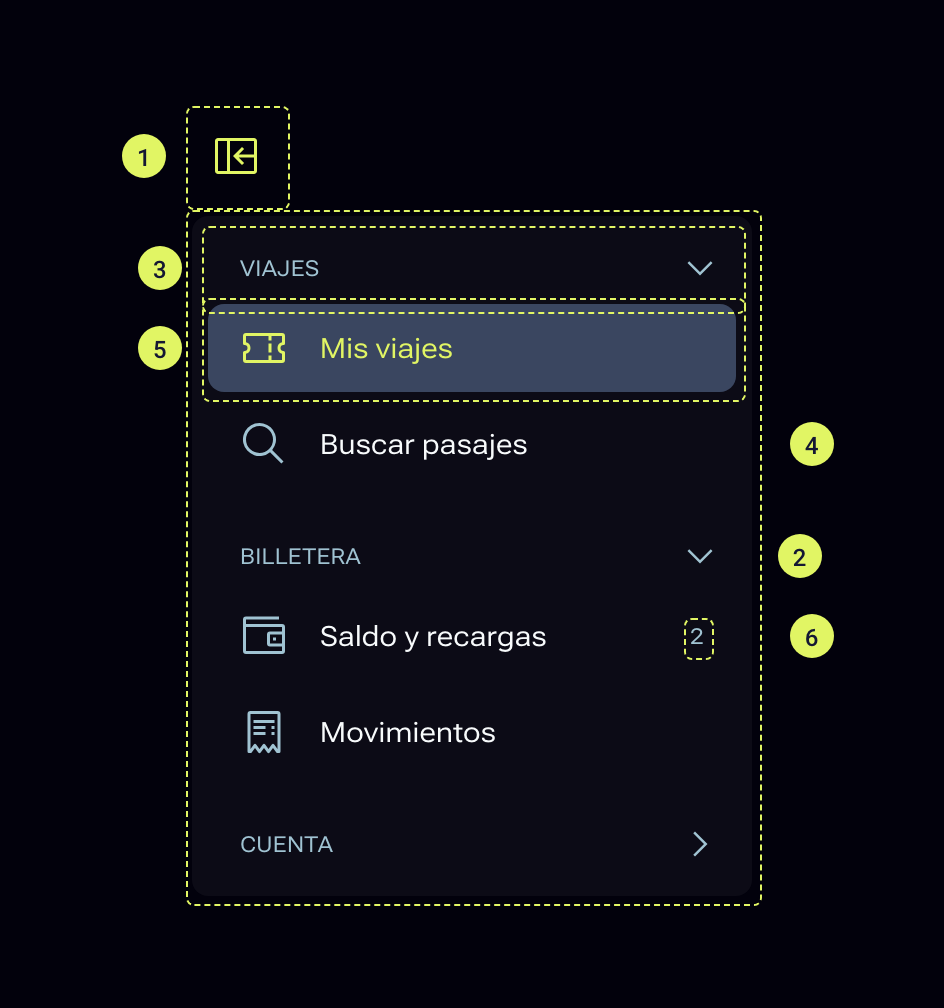
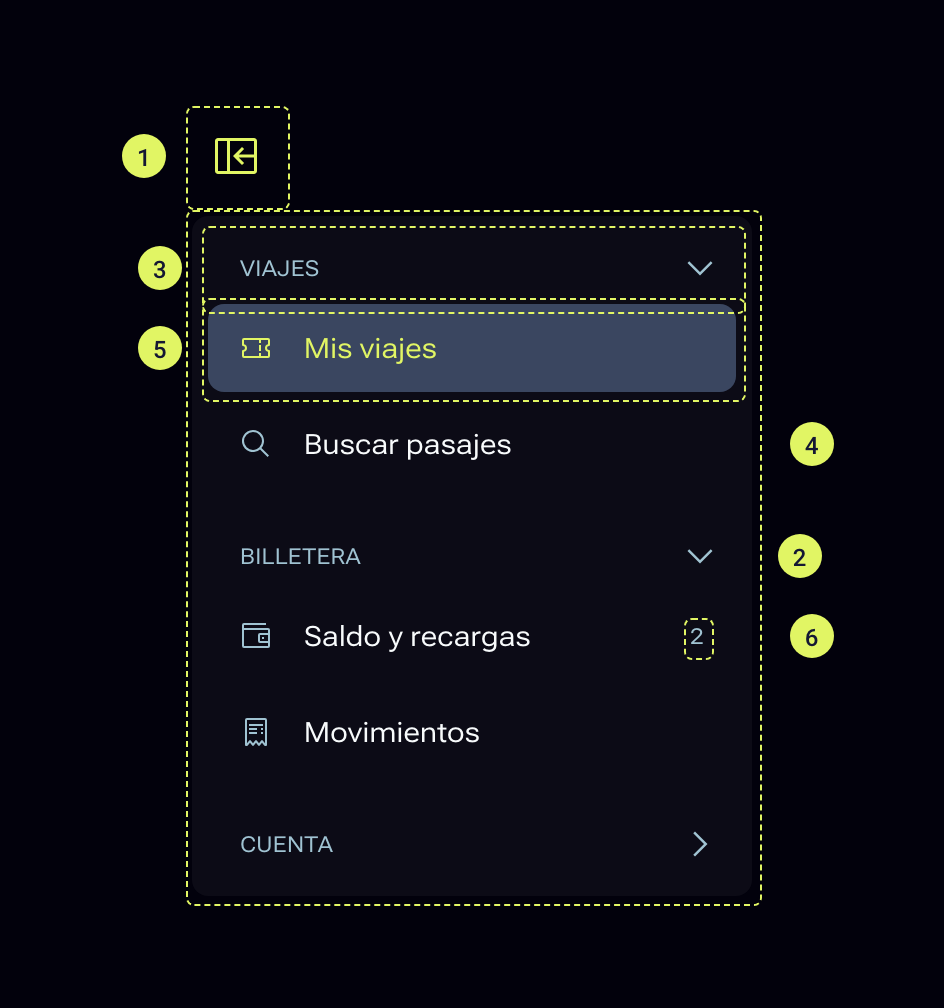
feat(docs): imágenes de los patrones; íconos del Sidebar a 16 px
- 16 escenas nuevas en scripts/images/patrones.mjs, hechas con los componentes reales.
- Sidebar: el ícono del destino usa icon-size-sm (16 px), igual a su separación de la etiqueta.
- Pendientes queda en 0 imágenes.

diff --git a/artifact/project/components/bundle.js b/artifact/project/components/bundle.js
@@ -514,7 +514,7 @@
         h('a', { href: it.href || '#', className: 'alma-side__item' + (on ? ' is-on' : ''), 'aria-current': on ? 'page' : undefined,
           'aria-label': it.badge !== undefined ? badgeLabel(it.label, it.badge) : undefined,
           onClick: function (e) { if (!it.href) e.preventDefault(); s[1](it.value); if (props.onChange) props.onChange(it.value); } },
-          it.icon ? h(AlmaIcon, { name: it.icon, variant: on ? 'filled' : 'outlined' }) : null,
+          it.icon ? h(AlmaIcon, { name: it.icon, size: 16, variant: on ? 'filled' : 'outlined' }) : null,
           h('span', { className: 'alma-side__text' }, it.label),
           it.badge !== undefined ? h('span', { className: 'alma-side__count' }, it.badge === true ? '!' : String(it.badge)) : null));
     }

diff --git a/artifact/project/Patrones.md b/artifact/project/Patrones.md
@@ -18,7 +18,7 @@ Siempre que la persona tenga que darnos datos: crear una cuenta, pagar, comprar 
 - **Formularios largos:** pártelos en pasos con `ProgressIndicator`, uno por tema. Nunca más de 5 pasos.
 - El ancho del campo sugiere el largo del dato: un código postal no ocupa todo el ancho.
 
-> **Imagen pendiente:** formulario de datos del pasajero en una columna, con dos grupos y el botón al final.
+![Formulario de datos del pasajero en una columna: el grupo Pasajero (nombre y RUT) y el grupo Contacto (correo y teléfono opcional), con 16 px entre campos, 24 px entre grupos y el botón «Continuar al pago» al final.](assets/Patrones/formularios-estructura.png)
 
 ### Elegir el control
 
@@ -55,7 +55,7 @@ Siempre que la persona tenga que darnos datos: crear una cuenta, pagar, comprar 
 - El error va bajo el campo, en `text-error` y con `field-border-error`: nunca solo color.
 - Dice cómo arreglarlo: «Escribe un correo con @», no «Correo inválido».
 
-> **Imagen pendiente:** un campo en reposo, con ayuda, con error y corregido.
+![El mismo campo de correo en cuatro momentos: en reposo, con su ayuda, con el error «Escribe un correo con @» en rojo y con ícono, y corregido.](assets/Patrones/formularios-validacion.png)
 
 ### Envío
 
@@ -87,7 +87,7 @@ Usa `EmptyState`:
 4. **Acción principal:** el siguiente paso. «Buscar pasajes».
 5. **Acción secundaria** (opcional).
 
-> **Imagen pendiente:** los cuatro casos de abajo, uno junto al otro.
+![Los cuatro estados vacíos lado a lado: primera vez («Aún no tienes viajes», con «Buscar pasajes»), sin resultados («No encontramos viajes a Talca el 31 de marzo», con «Quitar filtros»), sin permiso (sin acción) y sin conexión (con «Reintentar»).](assets/Patrones/estados-vacios-casos.png)
 
 ### Los casos
 
@@ -124,7 +124,7 @@ Cómo elegir el componente según el peso del mensaje.
 | Algo que exige una decisión | `Alert` | Al responder |
 | Un consejo sobre una función | `Tip` | Al descartarlo |
 
-> **Imagen pendiente:** la escala de peso, del error de campo a la alerta, con un ejemplo de cada uno.
+![La escala de peso de las notificaciones, de menos a más: el error de un campo, una InlineNotification, un callout, un Tip, un toast y una Alert que exige respuesta.](assets/Patrones/notificaciones-peso.png)
 
 ### Estados
 
@@ -163,7 +163,7 @@ Qué mostrar mientras algo tarda.
 | Una acción de un botón | `loading` del `Button` | La espera queda donde se hizo clic. |
 | Una pantalla de marca que se prepara | `ProgressLine` | La línea lima que termina en verde. |
 
-> **Imagen pendiente:** una lista de viajes cargando con `Skeleton` y luego con los datos.
+![La vista Mis viajes mientras carga, con Skeleton en el lugar de cada tarjeta, y la misma vista con los datos.](assets/Patrones/carga-skeleton.png)
 
 ### Tiempos
 
@@ -200,7 +200,7 @@ Usa `SearchField`:
 - **Alcance** (`scopes`): si se puede buscar en distintas áreas, empieza por la más amplia.
 - Los resultados muestran la palabra buscada y cuántos hay: «12 viajes a Talca».
 
-> **Imagen pendiente:** búsqueda con sugerencias abiertas y el alcance debajo.
+![Un SearchField con el texto de ejemplo «Buscar viajes, ciudades o terminales», en dos momentos: mientras se escribe «Ta», con las sugerencias recientes abiertas, y antes de escribir, con el alcance Todo, Viajes y Pagos debajo del campo.](assets/Patrones/busqueda-sugerencias.png)
 
 ### Filtrar
 
@@ -242,7 +242,7 @@ Cómo elegir entre Modal, Sheet, Alert y Popover.
 | Decir qué hace un control | `Tooltip` | No |
 | Una tarea larga o con varios pasos | Una página | — |
 
-> **Imagen pendiente:** las cuatro capas sobre la misma pantalla.
+![Las cuatro capas sobre la misma pantalla de Mis viajes: un Modal para cambiar el nombre del pasajero, un Sheet para compartir el viaje, una Alert que pregunta si anular el pasaje y un Popover que explica la tasa de embarque sin bloquear la página.](assets/Patrones/dialogos-capas.png)
 
 ### Reglas
 
@@ -278,7 +278,7 @@ Cómo ordenar los botones: prominencia, cantidad y posición.
 
 El rol cambia el significado, no la prominencia: `destructive` pinta de rojo cualquier estilo.
 
-> **Imagen pendiente:** una vista con una acción `filled`, dos `gray` y un menú «Más».
+![Una vista de pasaje con una acción filled «Pagar $7.000», dos gray «Cambiar asiento» y «Compartir», y el menú «Más» abierto con «Anular pasaje» al final, separada y en rojo.](assets/Patrones/acciones-prominencia.png)
 
 ### Cantidad
 
@@ -324,7 +324,7 @@ Un control desactivado se ve, pero no responde (al 45 % de opacidad en ALMA).
 
 Si desactivas algo que no es obvio, di por qué cerca del control («Disponible desde el 1 de abril»).
 
-> **Imagen pendiente:** un botón desactivado con su explicación al lado.
+![El botón «Cambiar fecha» desactivado y, junto a él, la explicación «Disponible desde el 1 de abril» con un ícono de información.](assets/Patrones/desactivado-explicacion.png)
 
 ### Solo lectura
 
@@ -362,7 +362,7 @@ Qué hacer cuando el texto o los datos no caben.
 
 Truncar esconde información: úsalo solo donde el texto completo está a un paso (el detalle, el tooltip).
 
-> **Imagen pendiente:** una celda recortada en el medio con su texto completo al pasar el cursor.
+![Una tabla de pasajes cuya columna Ruta recorta en el medio los nombres largos, conservando el principio y el final; al pasar el cursor por la celda se ve el texto completo.](assets/Patrones/desborda-celda.png)
 
 ### Muchos elementos
 
@@ -402,7 +402,7 @@ En toda app o sitio hecho con ALMA: es lo que queda fijo mientras cambia el cont
 | Navegación principal (desde 1056 px) | `Sidebar` | Las mismas secciones, agrupadas. |
 | Cuenta | `PullDownButton` de ícono `user--avatar` en la `Toolbar` | Perfil, Ajustes, Cerrar sesión. |
 
-> **Imagen pendiente:** la misma app en el teléfono (Toolbar arriba, TabBar abajo) y en escritorio (Toolbar arriba, Sidebar a la izquierda).
+![La misma app en dos pantallas. En el teléfono: Toolbar arriba con el título Mis viajes y TabBar abajo. En escritorio: Toolbar arriba con el buscador y Sidebar a la izquierda con los mismos destinos.](assets/Patrones/encabezado-global.png)
 
 ### Reglas
 
@@ -443,7 +443,7 @@ Para entrar a una cuenta, y en cualquier pantalla que pida la contraseña de nue
 5. Botón `filled`, `type: 'submit'`: «Ingresar».
 6. Debajo, un enlace para crear una cuenta.
 
-> **Imagen pendiente:** la pantalla de ingreso en el teléfono, en tema oscuro.
+![La pantalla de ingreso en el teléfono, en tema oscuro: título «Ingresa a tu cuenta», campos de correo y contraseña con su ojo, el enlace «¿Olvidaste tu contraseña?», el botón «Ingresar» y, abajo, el enlace para crear una cuenta.](assets/Patrones/inicio-de-sesion.png)
 
 ### Reglas
 
@@ -499,7 +499,7 @@ Para decir en qué estado está un elemento: un pago, un viaje, una tarjeta, un 
 | Éxito | `checkmark--outline` | `status-icon-success` |
 | Información | `information` | `status-icon-info` |
 
-> **Imagen pendiente:** los cuatro íconos de estado con su palabra, en tema oscuro y claro.
+![Los cuatro íconos de estado rellenos con su palabra, en tema oscuro y claro: error, advertencia, éxito e información. Cada uno tiene una forma distinta, así se distinguen sin color.](assets/Patrones/indicadores-estado.png)
 
 ### Reglas
 
@@ -537,7 +537,7 @@ ALMA **no tiene hoy un editor de texto con formato**. `Textarea` es texto sin fo
 3. Los íconos de Carbon: `text--bold`, `text--italic`, `text--underline`, `list--bulleted`, `list--numbered`, `link`. No vienen en el set incluido: se cargan con `AlmaDS.registerIcons` desde `carbon-icons.json`.
 4. Cada botón lleva su nombre y su atajo en un `Tooltip`: «Negrita (⌘B)».
 
-> **Imagen pendiente:** un campo de nota con la barra de formato arriba.
+![Un campo de nota con la barra de formato arriba, en el mismo contenedor: negrita (activa), cursiva y subrayado; lista con viñetas y numerada; y enlace. El tooltip de la negrita dice «Negrita (⌘B)».](assets/Patrones/barra-de-texto.png)
 
 ### Reglas
 
@@ -574,7 +574,7 @@ En Carbon, los campos «fluidos» llevan la etiqueta dentro del campo y se pegan
 
 El texto de ejemplo solo se ve con el campo enfocado: nunca compite con la etiqueta.
 
-> **Imagen pendiente:** un campo vacío, enfocado y con texto, con la etiqueta en cada posición.
+![La etiqueta del campo Correo en cada estado: vacío, dentro del campo; enfocado, arriba y con el texto de ejemplo visible; con texto, arriba; y con error, arriba en rojo.](assets/Patrones/estilos-fluidos-etiqueta.png)
 
 ### En grillas
 
@@ -611,7 +611,7 @@ Cuando hay más información de la que la mayoría necesita: detalles, condicion
 | Acciones secundarias | El menú «Más» (`PullDownButton`) |
 | Un texto largo | Un `Link` «Ver más» que lleva al texto completo |
 
-> **Imagen pendiente:** una pantalla de pasaje con el resumen a la vista y las condiciones en un Accordion.
+![Una pantalla de pasaje en el teléfono: el resumen a la vista (ruta, fecha, asiento y total) y, debajo, las condiciones del pasaje en un Accordion con la sección Cambios abierta.](assets/Patrones/divulgacion.png)
 
 ### Reglas
 

diff --git a/artifact/project/Pendientes.md b/artifact/project/Pendientes.md
@@ -2,72 +2,9 @@
 
 Todo lo que falta crear en ALMA. Las imágenes y las pruebas con lectores de pantalla se listan solas desde los documentos del repositorio; esta página se actualiza en cada cambio. En el sitio, cada imagen pendiente se marca en magenta dentro de su página.
 
-**En resumen:** 16 imágenes por crear y 45 componentes por probar con lectores de pantalla.
+**En resumen:** 0 imágenes por crear y 45 componentes por probar con lectores de pantalla.
 
-## Imágenes por crear (16)
-
-### Patrones
-
-**[Formularios](#formularios)**
-
-- formulario de datos del pasajero en una columna, con dos grupos y el botón al final.
-- un campo en reposo, con ayuda, con error y corregido.
-
-**[Encabezado y navegación global](#encabezado-global)**
-
-- la misma app en el teléfono (Toolbar arriba, TabBar abajo) y en escritorio (Toolbar arriba, Sidebar a la izquierda).
-
-**[Inicio de sesión](#inicio-de-sesion)**
-
-- la pantalla de ingreso en el teléfono, en tema oscuro.
-
-**[Indicadores de estado](#indicadores-de-estado)**
-
-- los cuatro íconos de estado con su palabra, en tema oscuro y claro.
-
-**[Barra de texto](#barra-de-texto)**
-
-- un campo de nota con la barra de formato arriba.
-
-**[Campos fluidos](#estilos-fluidos)**
-
-- un campo vacío, enfocado y con texto, con la etiqueta en cada posición.
-
-**[Divulgación progresiva](#divulgacion)**
-
-- una pantalla de pasaje con el resumen a la vista y las condiciones en un Accordion.
-
-**[Estados vacíos](#estados-vacios)**
-
-- los cuatro casos de abajo, uno junto al otro.
-
-**[Notificaciones](#notificaciones)**
-
-- la escala de peso, del error de campo a la alerta, con un ejemplo de cada uno.
-
-**[Carga](#carga)**
-
-- una lista de viajes cargando con `Skeleton` y luego con los datos.
-
-**[Búsqueda y filtros](#busqueda-y-filtros)**
-
-- búsqueda con sugerencias abiertas y el alcance debajo.
-
-**[Diálogos y capas](#dialogos)**
-
-- las cuatro capas sobre la misma pantalla.
-
-**[Acciones](#acciones)**
-
-- una vista con una acción `filled`, dos `gray` y un menú «Más».
-
-**[Desactivado y solo lectura](#desactivado-y-solo-lectura)**
-
-- un botón desactivado con su explicación al lado.
-
-**[Contenido que desborda](#contenido-que-desborda)**
-
-- una celda recortada en el medio con su texto completo al pasar el cursor.
+## Imágenes por crear (0)
 
 ## Pruebas con lectores de pantalla (45)
 

diff --git a/artifact/project/Documentacion.md b/artifact/project/Documentacion.md
@@ -6,6 +6,8 @@ Lo último que cambió en ALMA, de lo más reciente a lo más antiguo. El detall
 
 ### 30 de septiembre de 2026
 
+- **Imágenes de los patrones.** Las 16 imágenes pendientes de los patrones ya existen, hechas con los componentes reales: formularios, estados vacíos, la escala de las notificaciones, carga, búsqueda, las cuatro capas de diálogo, acciones, desactivado, contenido que desborda, encabezado global, inicio de sesión, indicadores de estado, barra de texto, etiquetas de los campos y divulgación. Ya no quedan imágenes pendientes.
+- **Íconos del Sidebar a 16 px.** Pasan de 24 px a `icon-size-sm` (16 px), el mismo valor que su separación de la etiqueta, para que se perciban equilibrados y no pesen más que el texto.
 - **Imágenes de los componentes.** Las 101 imágenes pendientes de las guías de componentes ya existen: anatomías numeradas, medidas tomadas del componente dibujado, estados y ejemplos en contexto. Se fotografían con los componentes reales (`npm run images`); las pantallas de modales, hojas, avisos y barras usan un marco de dispositivo. Solo quedan pendientes las 16 de los patrones.
 - **Arreglo: botones destructivos desactivados.** Se veían igual que activos, porque el estilo destructivo le ganaba al desactivado. Ahora un «Eliminar» desactivado usa `button-disabled-bg` y `button-disabled-text`, como el resto.
 - **Arreglo: ancho de los menús.** El menú de un botón angosto (un `PullDownButton` de solo ícono, «Más» en `Toolbar`) partía sus opciones en varias líneas. Ahora toma el ancho de su contenido, con el del botón como mínimo y 320 px como máximo.

diff --git a/docs/novedades.md b/docs/novedades.md
@@ -4,6 +4,8 @@ Lo último que cambió en ALMA, de lo más reciente a lo más antiguo. El detall
 
 ## 30 de septiembre de 2026
 
+- **Imágenes de los patrones.** Las 16 imágenes pendientes de los patrones ya existen, hechas con los componentes reales: formularios, estados vacíos, la escala de las notificaciones, carga, búsqueda, las cuatro capas de diálogo, acciones, desactivado, contenido que desborda, encabezado global, inicio de sesión, indicadores de estado, barra de texto, etiquetas de los campos y divulgación. Ya no quedan imágenes pendientes.
+- **Íconos del Sidebar a 16 px.** Pasan de 24 px a `icon-size-sm` (16 px), el mismo valor que su separación de la etiqueta, para que se perciban equilibrados y no pesen más que el texto.
 - **Imágenes de los componentes.** Las 101 imágenes pendientes de las guías de componentes ya existen: anatomías numeradas, medidas tomadas del componente dibujado, estados y ejemplos en contexto. Se fotografían con los componentes reales (`npm run images`); las pantallas de modales, hojas, avisos y barras usan un marco de dispositivo. Solo quedan pendientes las 16 de los patrones.
 - **Arreglo: botones destructivos desactivados.** Se veían igual que activos, porque el estilo destructivo le ganaba al desactivado. Ahora un «Eliminar» desactivado usa `button-disabled-bg` y `button-disabled-text`, como el resto.
 - **Arreglo: ancho de los menús.** El menú de un botón angosto (un `PullDownButton` de solo ícono, «Más» en `Toolbar`) partía sus opciones en varias líneas. Ahora toma el ancho de su contenido, con el del botón como mínimo y 320 px como máximo.

diff --git a/docs/patterns/1-formularios.md b/docs/patterns/1-formularios.md
@@ -15,7 +15,7 @@ Siempre que la persona tenga que darnos datos: crear una cuenta, pagar, comprar 
 - **Formularios largos:** pártelos en pasos con `ProgressIndicator`, uno por tema. Nunca más de 5 pasos.
 - El ancho del campo sugiere el largo del dato: un código postal no ocupa todo el ancho.
 
-> **Imagen pendiente:** formulario de datos del pasajero en una columna, con dos grupos y el botón al final.
+![Formulario de datos del pasajero en una columna: el grupo Pasajero (nombre y RUT) y el grupo Contacto (correo y teléfono opcional), con 16 px entre campos, 24 px entre grupos y el botón «Continuar al pago» al final.](assets/Patrones/formularios-estructura.png)
 
 ## Elegir el control
 
@@ -52,7 +52,7 @@ Siempre que la persona tenga que darnos datos: crear una cuenta, pagar, comprar 
 - El error va bajo el campo, en `text-error` y con `field-border-error`: nunca solo color.
 - Dice cómo arreglarlo: «Escribe un correo con @», no «Correo inválido».
 
-> **Imagen pendiente:** un campo en reposo, con ayuda, con error y corregido.
+![El mismo campo de correo en cuatro momentos: en reposo, con su ayuda, con el error «Escribe un correo con @» en rojo y con ícono, y corregido.](assets/Patrones/formularios-validacion.png)
 
 ## Envío
 

diff --git a/docs/patterns/13-barra-de-texto.md b/docs/patterns/13-barra-de-texto.md
@@ -18,7 +18,7 @@ ALMA **no tiene hoy un editor de texto con formato**. `Textarea` es texto sin fo
 3. Los íconos de Carbon: `text--bold`, `text--italic`, `text--underline`, `list--bulleted`, `list--numbered`, `link`. No vienen en el set incluido: se cargan con `AlmaDS.registerIcons` desde `carbon-icons.json`.
 4. Cada botón lleva su nombre y su atajo en un `Tooltip`: «Negrita (⌘B)».
 
-> **Imagen pendiente:** un campo de nota con la barra de formato arriba.
+![Un campo de nota con la barra de formato arriba, en el mismo contenedor: negrita (activa), cursiva y subrayado; lista con viñetas y numerada; y enlace. El tooltip de la negrita dice «Negrita (⌘B)».](assets/Patrones/barra-de-texto.png)
 
 ## Reglas
 

diff --git a/docs/patterns/10-encabezado-global.md b/docs/patterns/10-encabezado-global.md
@@ -16,7 +16,7 @@ En toda app o sitio hecho con ALMA: es lo que queda fijo mientras cambia el cont
 | Navegación principal (desde 1056 px) | `Sidebar` | Las mismas secciones, agrupadas. |
 | Cuenta | `PullDownButton` de ícono `user--avatar` en la `Toolbar` | Perfil, Ajustes, Cerrar sesión. |
 
-> **Imagen pendiente:** la misma app en el teléfono (Toolbar arriba, TabBar abajo) y en escritorio (Toolbar arriba, Sidebar a la izquierda).
+![La misma app en dos pantallas. En el teléfono: Toolbar arriba con el título Mis viajes y TabBar abajo. En escritorio: Toolbar arriba con el buscador y Sidebar a la izquierda con los mismos destinos.](assets/Patrones/encabezado-global.png)
 
 ## Reglas
 

diff --git a/docs/patterns/5-busqueda-y-filtros.md b/docs/patterns/5-busqueda-y-filtros.md
@@ -13,7 +13,7 @@ Usa `SearchField`:
 - **Alcance** (`scopes`): si se puede buscar en distintas áreas, empieza por la más amplia.
 - Los resultados muestran la palabra buscada y cuántos hay: «12 viajes a Talca».
 
-> **Imagen pendiente:** búsqueda con sugerencias abiertas y el alcance debajo.
+![Un SearchField con el texto de ejemplo «Buscar viajes, ciudades o terminales», en dos momentos: mientras se escribe «Ta», con las sugerencias recientes abiertas, y antes de escribir, con el alcance Todo, Viajes y Pagos debajo del campo.](assets/Patrones/busqueda-sugerencias.png)
 
 ## Filtrar
 

diff --git a/docs/patterns/15-divulgacion.md b/docs/patterns/15-divulgacion.md
@@ -19,7 +19,7 @@ Cuando hay más información de la que la mayoría necesita: detalles, condicion
 | Acciones secundarias | El menú «Más» (`PullDownButton`) |
 | Un texto largo | Un `Link` «Ver más» que lleva al texto completo |
 
-> **Imagen pendiente:** una pantalla de pasaje con el resumen a la vista y las condiciones en un Accordion.
+![Una pantalla de pasaje en el teléfono: el resumen a la vista (ruta, fecha, asiento y total) y, debajo, las condiciones del pasaje en un Accordion con la sección Cambios abierta.](assets/Patrones/divulgacion.png)
 
 ## Reglas
 

diff --git a/docs/patterns/11-inicio-de-sesion.md b/docs/patterns/11-inicio-de-sesion.md
@@ -16,7 +16,7 @@ Para entrar a una cuenta, y en cualquier pantalla que pida la contraseña de nue
 5. Botón `filled`, `type: 'submit'`: «Ingresar».
 6. Debajo, un enlace para crear una cuenta.
 
-> **Imagen pendiente:** la pantalla de ingreso en el teléfono, en tema oscuro.
+![La pantalla de ingreso en el teléfono, en tema oscuro: título «Ingresa a tu cuenta», campos de correo y contraseña con su ojo, el enlace «¿Olvidaste tu contraseña?», el botón «Ingresar» y, abajo, el enlace para crear una cuenta.](assets/Patrones/inicio-de-sesion.png)
 
 ## Reglas
 

diff --git a/docs/patterns/6-dialogos.md b/docs/patterns/6-dialogos.md
@@ -14,7 +14,7 @@ summary: Cómo elegir entre Modal, Sheet, Alert y Popover.
 | Decir qué hace un control | `Tooltip` | No |
 | Una tarea larga o con varios pasos | Una página | — |
 
-> **Imagen pendiente:** las cuatro capas sobre la misma pantalla.
+![Las cuatro capas sobre la misma pantalla de Mis viajes: un Modal para cambiar el nombre del pasajero, un Sheet para compartir el viaje, una Alert que pregunta si anular el pasaje y un Popover que explica la tasa de embarque sin bloquear la página.](assets/Patrones/dialogos-capas.png)
 
 ## Reglas
 
